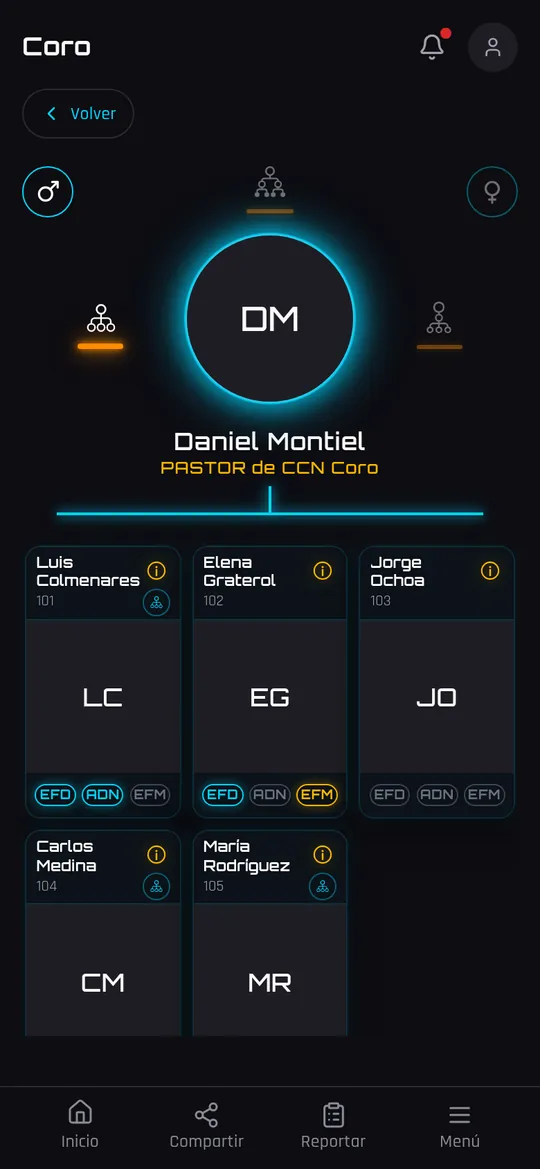
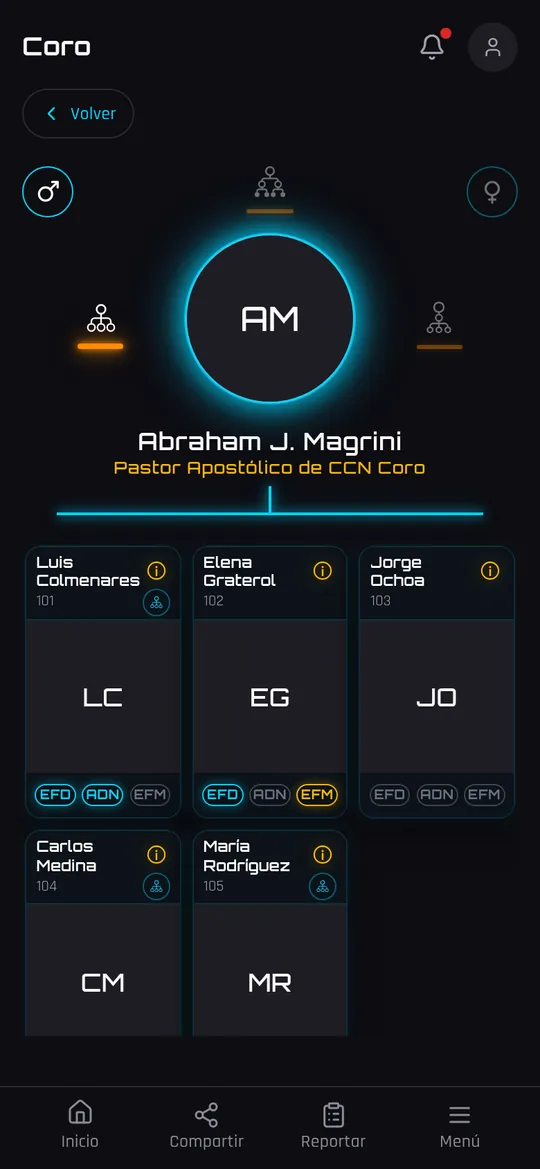
feat(landing): 7 módulos (+ Cuidado Pastoral, Mapa de Territorios) y «Y muchas funciones más»; pastor raíz Abraham J. Magrini; «Desarrollado por» en el pie

Changed region(s): [[0.2074, 0.3695, 0.7704, 0.4311], [0.4444, 0.2464, 0.5037, 0.2772]]

diff --git a/src/components/landing-page.tsx b/src/components/landing-page.tsx
@@ -66,6 +66,20 @@ const MODULOS = [
     img: "/capturas/red.webp",
     color: "#00D4FF",
   },
+  {
+    id: "cuidado",
+    titulo: "Cuidado Pastoral",
+    texto: "Pedir oración, agendar una cita o contactar un ministerio, con respuesta de la casa.",
+    img: "/capturas/cuidado.webp",
+    color: "#FF8C00",
+  },
+  {
+    id: "mapa",
+    titulo: "Mapa de Territorios",
+    texto: "Cada red demarca la zona que trabaja; los pastores la revisan y aprueban.",
+    img: "/capturas/mapa.webp",
+    color: "#00D4FF",
+  },
 ] as const;
 
 function scrollToId(id: string) {
@@ -216,10 +230,10 @@ function Modulos() {
       <div className="page-wrap">
         <p className="eyebrow">Lo que hay adentro</p>
         <h2 id="modulos-titulo" className="mt-3 font-display text-section font-medium tracking-tight">
-          Cinco módulos, una sola red
+          Siete módulos, una sola red
         </h2>
         <p className="mt-4 max-w-xl text-lead text-muted">
-          Capturas reales de la app. Los nombres son de ejemplo.
+          Capturas reales de la app.
         </p>
       </div>
       <ul className="modulos-rail page-wrap-rail mt-10" aria-label="Módulos de Nodus">
@@ -237,6 +251,27 @@ function Modulos() {
             </div>
           </li>
         ))}
+        <li className="modulo-card">
+          <div className="modulo-shot is-collage">
+            <img
+              src="/capturas/mas-funciones.webp"
+              alt="Asistencia, Altar Familiar, Ministerios y Nuevos convertidos en Nodus"
+              width={540}
+              height={720}
+              loading="lazy"
+              decoding="async"
+              className="block h-full w-full object-cover object-top"
+            />
+          </div>
+          <div className="p-5">
+            <h3 className="flex items-center gap-2 font-sans text-lg font-semibold tracking-tight">
+              <span aria-hidden="true" className="size-2 rounded-full bg-fg" />Y muchas funciones más
+            </h3>
+            <p className="mt-1.5 text-[0.95rem] leading-normal text-muted">
+              Asistencia, Altar Familiar, Ministerios, Nuevos convertidos, avisos y reportes.
+            </p>
+          </div>
+        </li>
       </ul>
     </section>
   );
@@ -275,7 +310,10 @@ function SiteFooter() {
             {SITE}
           </a>
         </span>
-        <p>{lineaCopyright()}</p>
+        <p className="flex flex-col gap-0.5 sm:items-end">
+          <span>{lineaCopyright()}</span>
+          <span className="text-subtle">Desarrollado por Abraham J. Magrini</span>
+        </p>
       </div>
     </footer>
   );

diff --git a/src/styles.css b/src/styles.css
@@ -240,10 +240,13 @@
     -webkit-mask-image: linear-gradient(180deg, #000 78%, transparent);
     mask-image: linear-gradient(180deg, #000 78%, transparent);
   }
+  .modulo-shot.is-collage {
+    padding: 0;
+  }
   @media (min-width: 1024px) {
     .modulos-rail {
       display: grid;
-      grid-template-columns: repeat(5, minmax(0, 1fr));
+      grid-template-columns: repeat(4, minmax(0, 1fr));
       overflow: visible;
       margin-inline: auto;
       width: min(100% - 2.5rem, 68rem);
